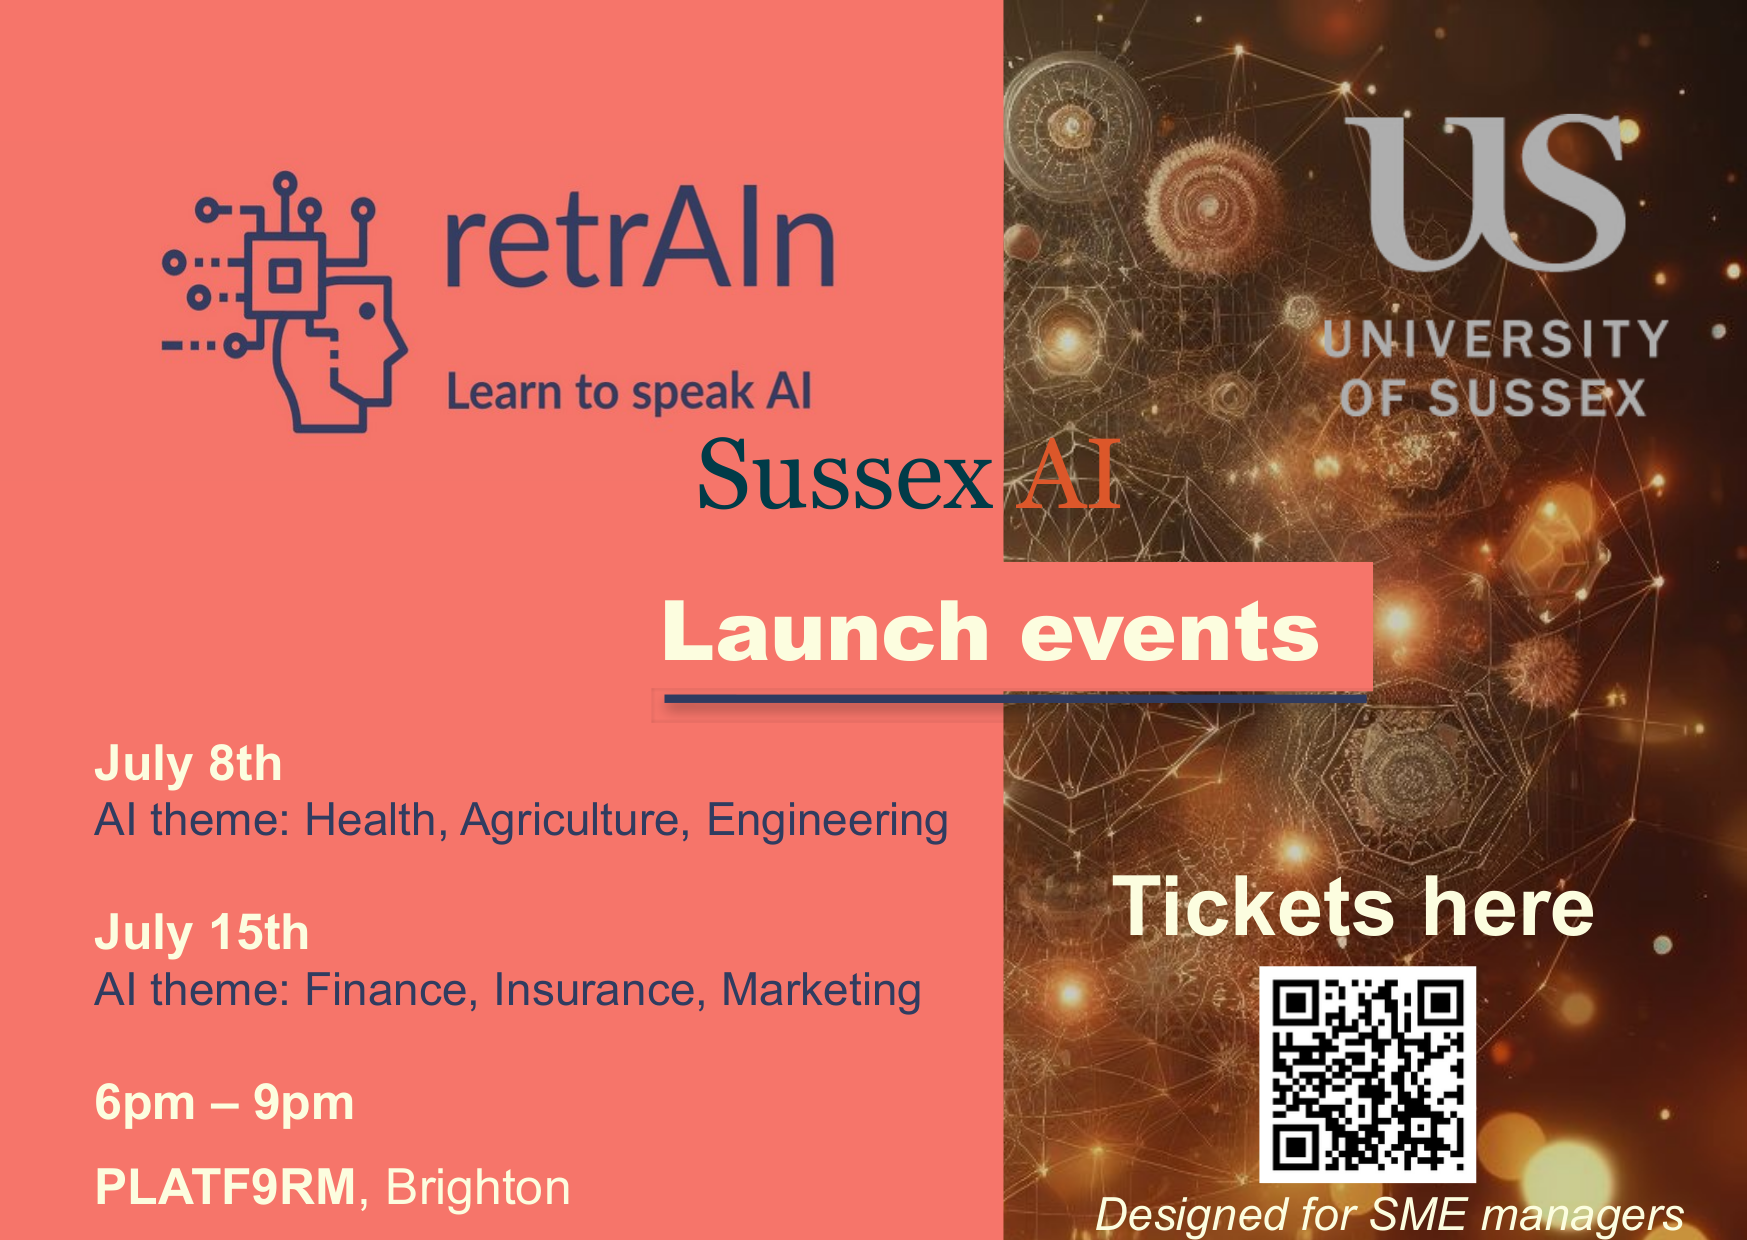
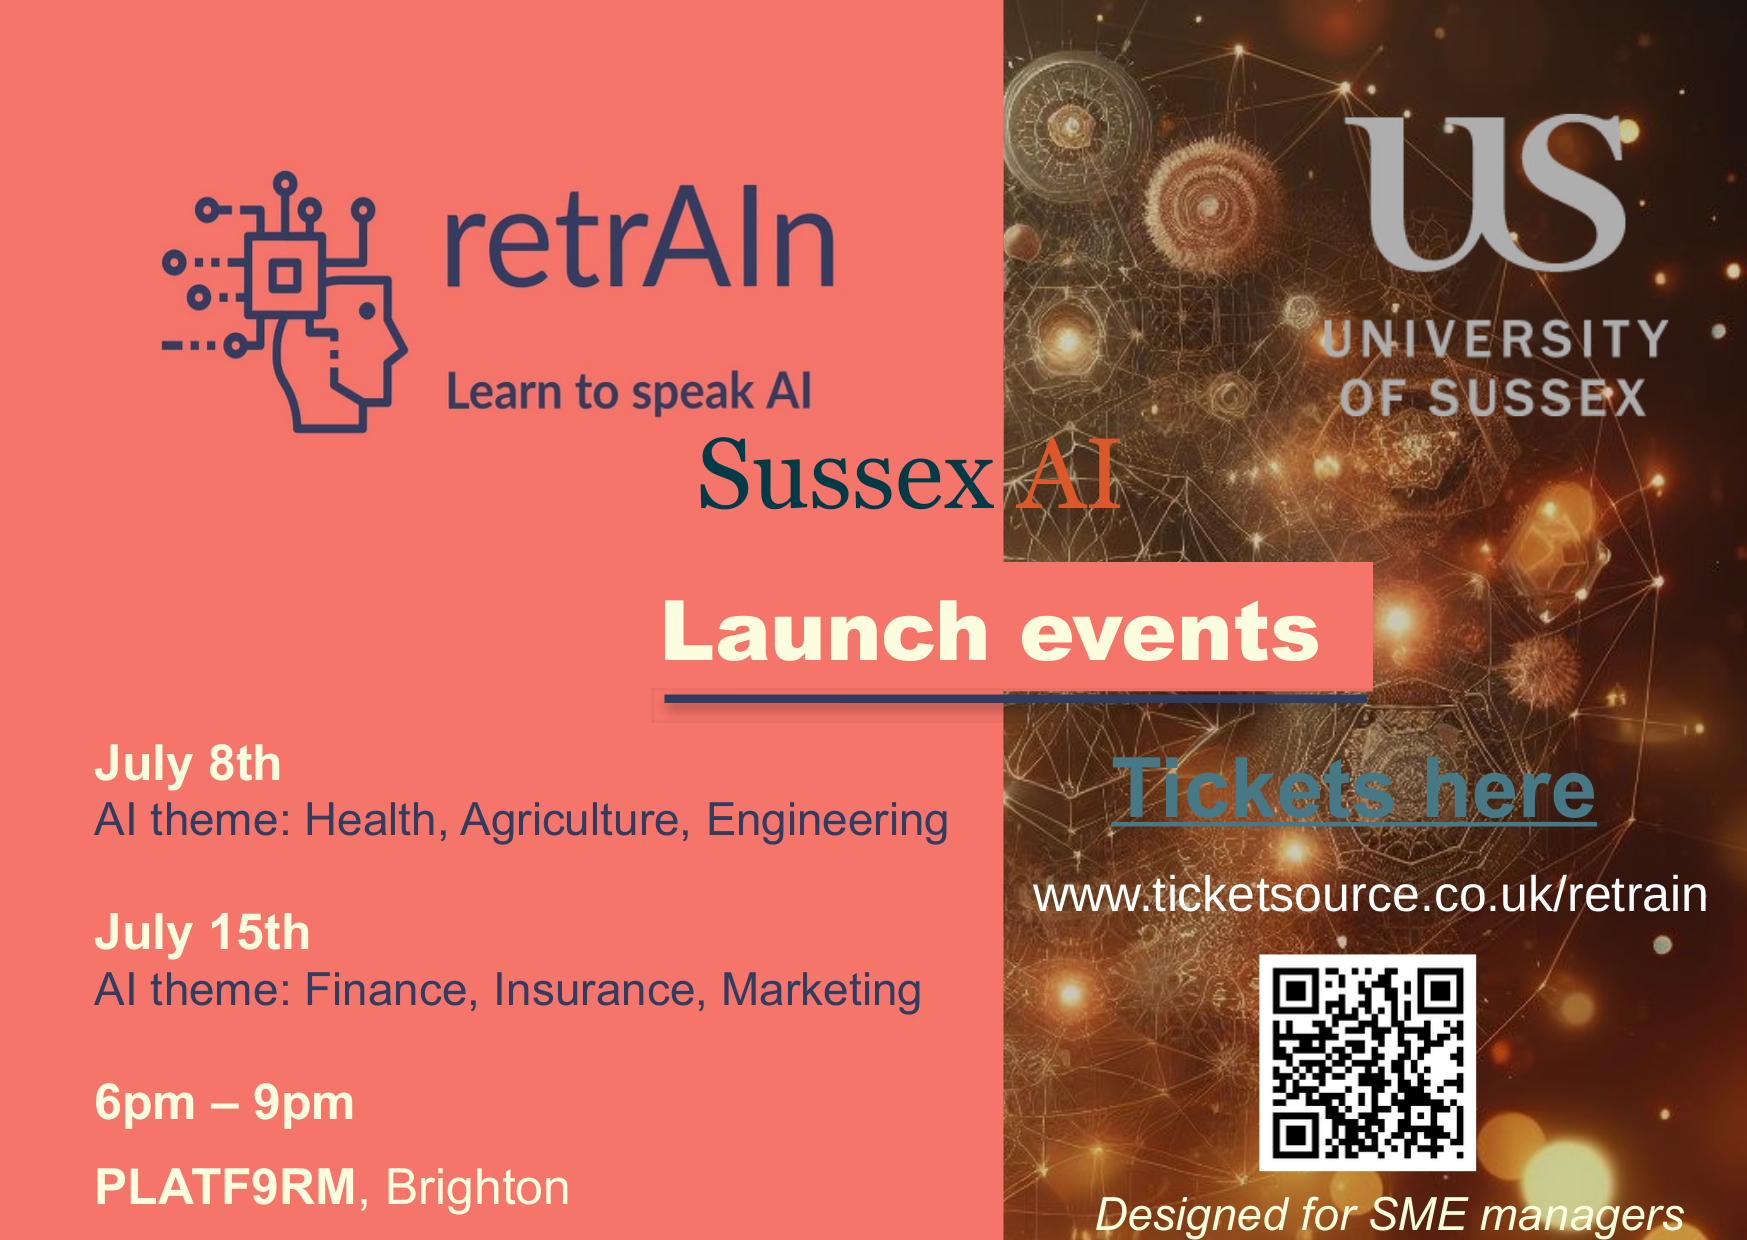
updated with flyer

diff --git a/index.html b/index.html
@@ -341,7 +341,7 @@
   <h1 class="heading">events</h1>
   <div class="row">
     <div class="imgbox">
-          <img class='center-fit' src="./images/retrAIn_launch_flyer.png">
+          <img class='center-fit' src="./images/flyer_a6_one.png">
     </div>
   </div>
  </section>
